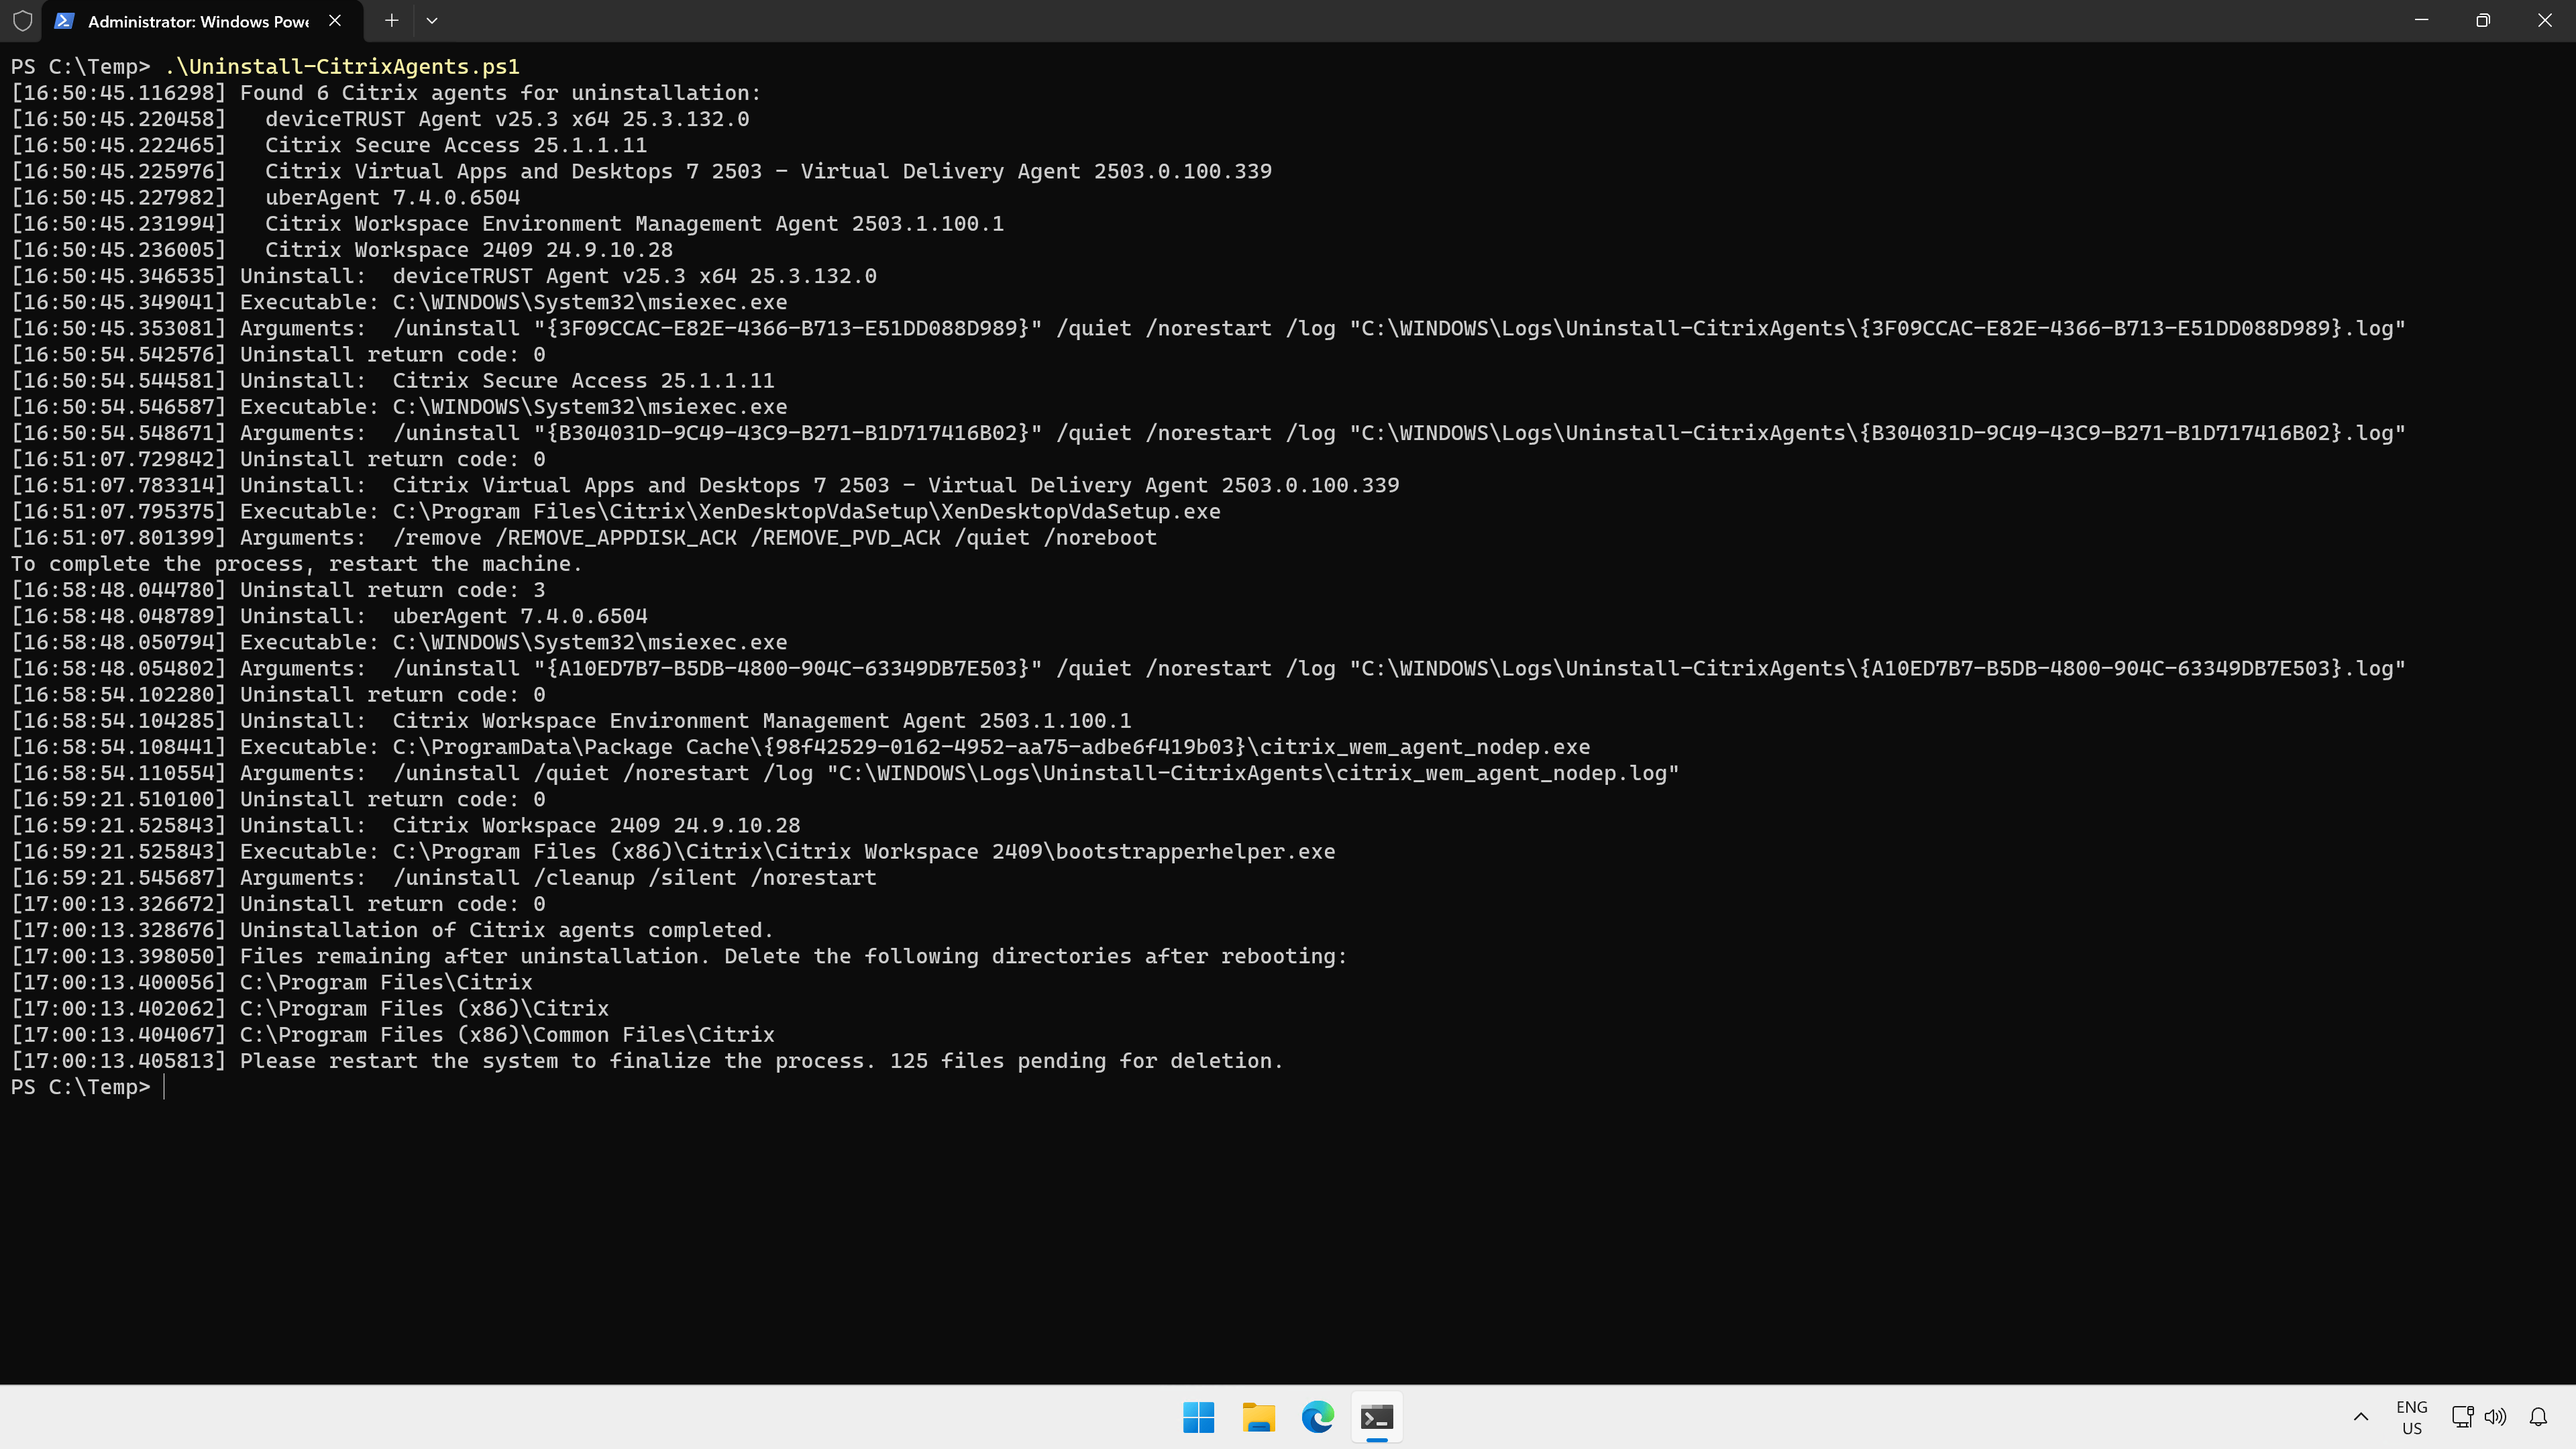
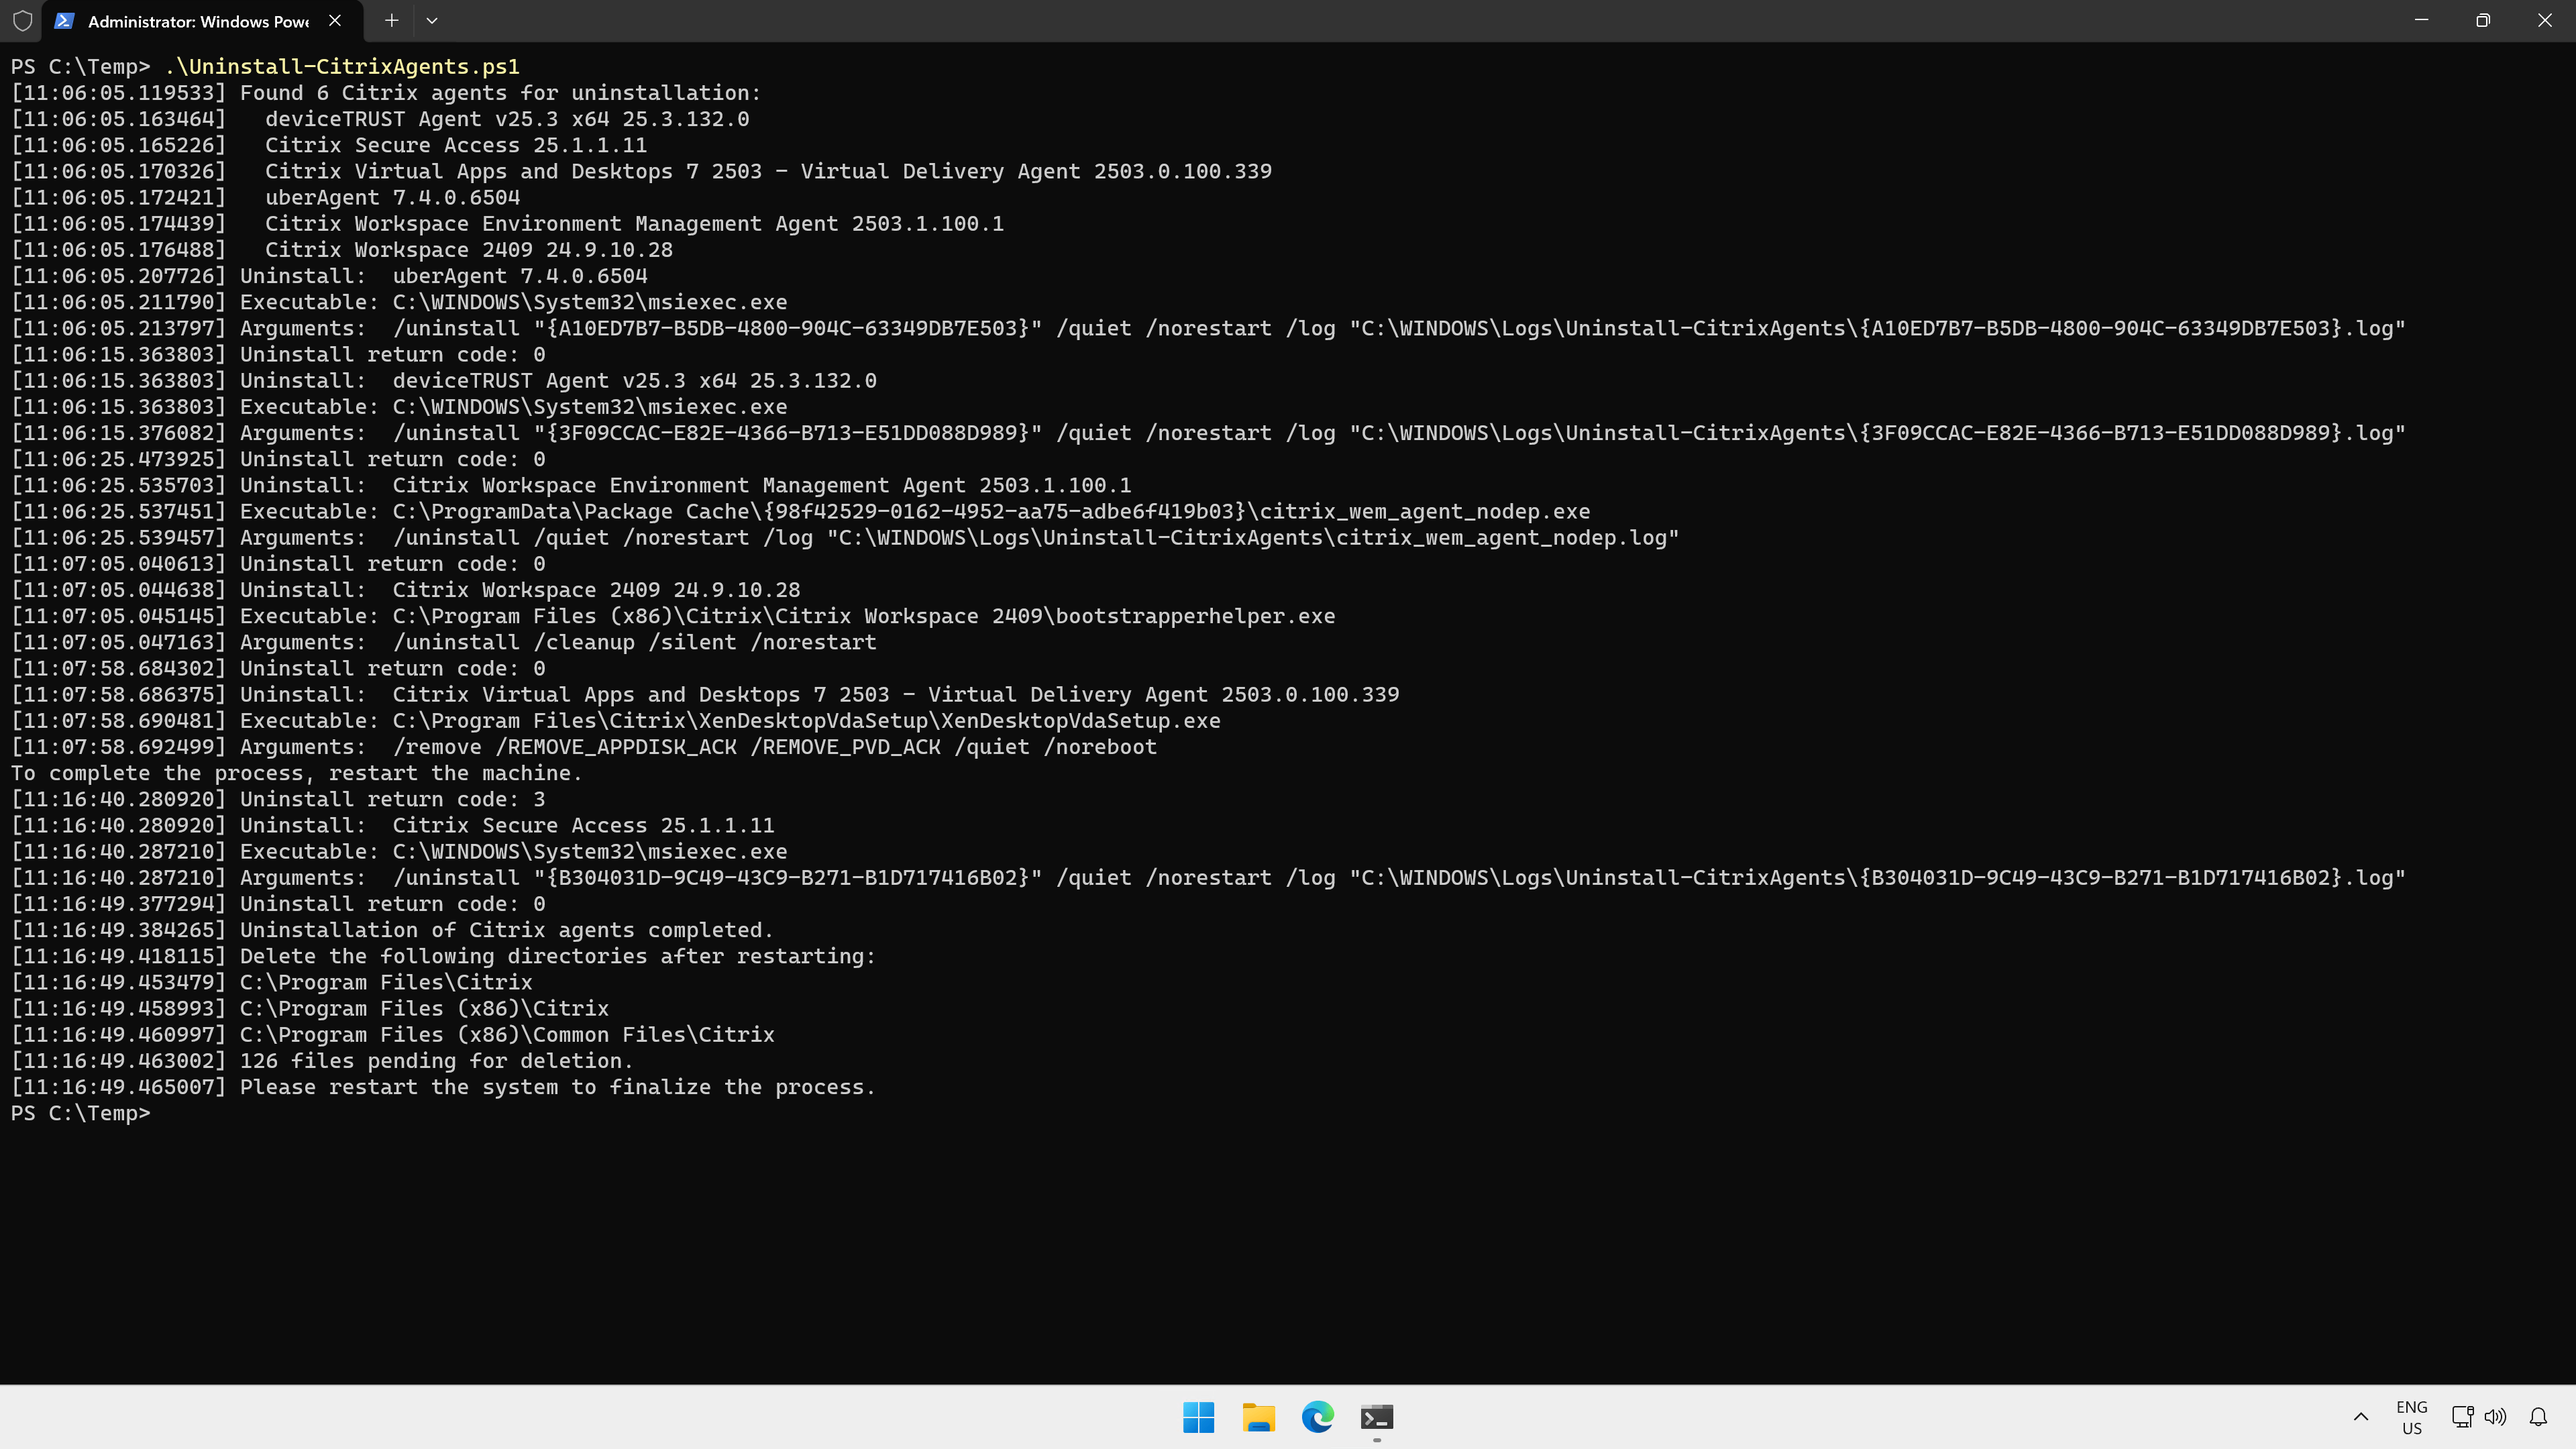
Update
Update README. Sort software in descending order before uninstall

diff --git a/tools/README.md b/tools/README.md
@@ -1,8 +1,10 @@
 # Migration scripts
 
-To prepare a virtual machine to be migrated from a third party virtual desktop solution to Azure Virtual Desktop or Nerdio Manager
+To prepare a virtual machine to be migrated from a third party virtual desktop solution to Azure Virtual Desktop or Windows 365, scripts here can be used to uninstall third party agents.
 
-`Uninstall-CitrixAgents.ps1` - uninstalls Citrix agents on a Windows virtual machine. This script queries the local system for installed Win32 software from Citrix Systems, Inc. and vast limits GmbH, determines the uninstall strings for each installed application and uninstalls the application. Actions are logged to `C:\Windows\Logs\Uninstall-CitrixAgents`.
+## Uninstall-CitrixAgents.ps1
+
+Uninstalls Citrix agents on a Windows virtual machine. This script queries the local system for installed Win32 software from Citrix Systems, Inc. and vast limits GmbH, determines the uninstall strings for each installed application and uninstalls the application. Actions are logged to `C:\Windows\Logs\Uninstall-CitrixAgents`.
 
 You may need to run the script twice - in some cases, the Virtual Delivery Agent does not completely uninstall and requires a reboot before running the uninstall script again.
 
